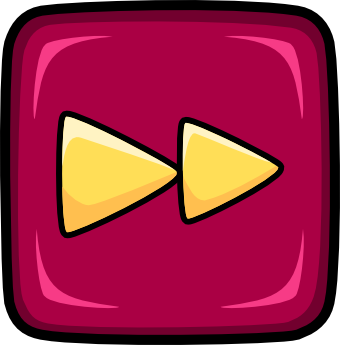
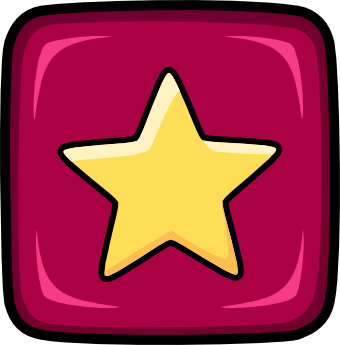
Added rewind and unmake buttons

Changed region(s): [[0.1471, 0.1739, 0.8529, 0.8406]]

diff --git a/sudoku/sudoku.py b/sudoku/sudoku.py
@@ -8,6 +8,8 @@ from .logic_game import SudokuLogic
 class Sudoku:
     def __init__(self):
         self.__sudoku = SudokuLogic()
+        self.__moves = []
+        self.__solution = None  # initialized by clicking the solve button
 
         pygame.init()  # initializing pygame
 
@@ -56,10 +58,20 @@ class Sudoku:
         self.button_refresh_rect = self.button_refresh.get_rect(topleft=(self.button_return_rect.right + spacing_blocks,
                                                                          self.button_return_rect.top))
 
+        self.button_rewind = pygame.transform.scale(pygame.image.load('sudoku/media/rewind.png'),
+                                                    (button_height, button_height))
+        self.button_rewind_rect = self.button_rewind.get_rect(topleft=(self.button_refresh_rect.right + spacing_blocks,
+                                                                       self.button_refresh_rect.top))
+
+        self.button_unmake = pygame.transform.scale(pygame.image.load('sudoku/media/unmake.png'),
+                                                    (button_height, button_height))
+        self.button_unmake_rect = self.button_unmake.get_rect(topleft=(self.button_rewind_rect.right + spacing_blocks,
+                                                                       self.button_rewind_rect.top))
+
         self.button_solve = pygame.transform.scale(pygame.image.load('sudoku/media/solve.png'),
                                                    (button_height, button_height))
-        self.button_solve_rect = self.button_solve.get_rect(topleft=(self.button_refresh_rect.right + spacing_blocks,
-                                                                     self.button_refresh_rect.top))
+        self.button_solve_rect = self.button_solve.get_rect(topleft=(self.button_unmake_rect.right + spacing_blocks,
+                                                                     self.button_unmake_rect.top))
 
         self.button_win = pygame.transform.scale(pygame.image.load('sudoku/media/win.png'),
                                                  (N * block_size + (N-1) * spacing_blocks,
@@ -102,11 +114,15 @@ class Sudoku:
         time = 0
         selected = 0
 
+        self.clock.tick()  # update the clock
+
         # Displaying fixed screen elements
         self.screen.blit(self.background, (0, 0))  # overriding home screen buttons
 
         self.screen.blit(self.button_return, self.button_return_rect)
         self.screen.blit(self.button_refresh, self.button_refresh_rect)
+        self.screen.blit(self.button_rewind, self.button_rewind_rect)
+        self.screen.blit(self.button_unmake, self.button_unmake_rect)
         self.screen.blit(self.button_solve, self.button_solve_rect)
 
         self.display_grid()
@@ -116,13 +132,13 @@ class Sudoku:
                 if event.type == pygame.QUIT:
                     exit(0)
 
-                if event.type == pygame.MOUSEBUTTONDOWN:
+                elif event.type == pygame.MOUSEBUTTONDOWN:
                     if self.button_return_rect.collidepoint(event.pos):
-                        self.sudoku.update()  # update the grid
+                        self.update()  # update the grid
                         return
 
                     elif self.button_refresh_rect.collidepoint(event.pos):
-                        self.sudoku.update()  # update the grid
+                        self.update()
 
                         time = 0  # auxiliary variables
                         self.clock.tick()  # update the clock
@@ -130,7 +146,22 @@ class Sudoku:
                         continue
 
                 if not self.sudoku.won:
-                    if event.type == pygame.KEYDOWN:
+                    if event.type == pygame.MOUSEBUTTONDOWN:
+                        if self.button_rewind_rect.collidepoint(event.pos):
+                            self.sudoku.clear_grid()  # clear the grid
+
+                            self.__moves = []  # reset moves
+
+                        elif self.button_unmake_rect.collidepoint(event.pos):
+                            if self.__moves:
+                                unmake_move = self.__moves.pop()
+
+                                self.sudoku.clear(*flatten_position(unmake_move))
+
+                        elif self.button_solve_rect.collidepoint(event.pos):
+                            pass
+
+                    elif event.type == pygame.KEYDOWN:
                         if event.key == pygame.K_UP and selected > 8:
                             selected -= 9
                         elif event.key == pygame.K_DOWN and selected < 72:
@@ -143,6 +174,8 @@ class Sudoku:
                             self.sudoku.clear(*flatten_position(selected))
                         elif self.actions(event.key):
                             self.sudoku.insert(*flatten_position(selected), self.actions(event.key))
+
+                            self.__moves.append(selected)  # recording movement performed
 
                             if self.sudoku.won:  # verified win only after valid input
                                 self.screen.blit(self.button_win, self.button_win_rect)
@@ -186,6 +219,13 @@ class Sudoku:
                                time_text.get_width() + 2 * slip_font,
                                time_text.get_height() + 2 * slip_font))
         self.screen.blit(time_text, (left, top))
+
+    def update(self):
+        self.sudoku.update()  # update the grid
+
+        # Reset moves and solution
+        self.__moves = []
+        self.__solution = None
 
     @staticmethod
     def actions(event):
